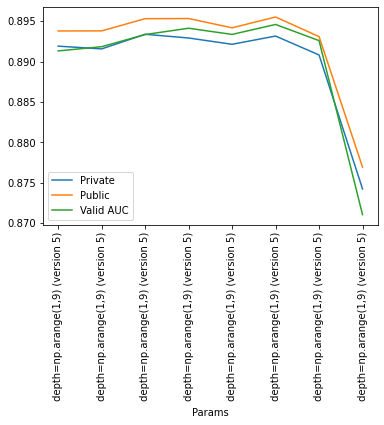
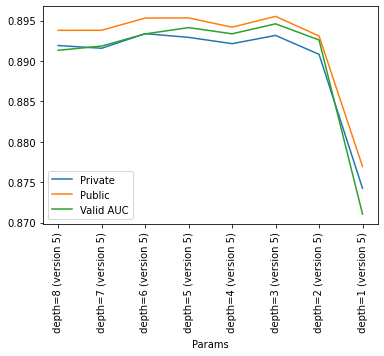
Fix 20210217

diff --git a/_posts/2021-02-05-result_log_20210217.md b/_posts/2021-02-05-result_log_20210217.md
@@ -477,67 +477,67 @@ plt.show()
   </thead>
   <tbody>
     <tr>
-      <th>rs=np.arange(np.arange(1.0,-10.0,-1.0)) (version 6)</th>
+      <th>rs=1e-09 (version 6)</th>
       <td>0.89301</td>
       <td>0.89559</td>
       <td>0.8932034700797187</td>
     </tr>
     <tr>
-      <th>rs=np.arange(np.arange(1.0,-10.0,-1.0)) (version 6)</th>
+      <th>rs=1e-08 (version 6)</th>
       <td>0.89301</td>
       <td>0.89559</td>
       <td>0.8932034700797187</td>
     </tr>
     <tr>
-      <th>rs=np.arange(np.arange(1.0,-10.0,-1.0)) (version 6)</th>
+      <th>rs=1e-07 (version 6)</th>
       <td>0.89301</td>
       <td>0.89559</td>
       <td>0.8932034700797187</td>
     </tr>
     <tr>
-      <th>rs=np.arange(np.arange(1.0,-10.0,-1.0)) (version 6)</th>
+      <th>rs=1e-06 (version 6)</th>
       <td>0.89301</td>
       <td>0.89559</td>
       <td>0.8932034700797187</td>
     </tr>
     <tr>
-      <th>rs=np.arange(np.arange(1.0,-10.0,-1.0)) (version 6)</th>
+      <th>rs=1e-05 (version 6)</th>
       <td>0.89301</td>
       <td>0.89559</td>
       <td>0.8932034700797187</td>
     </tr>
     <tr>
-      <th>rs=np.arange(np.arange(1.0,-10.0,-1.0)) (version 6)</th>
+      <th>0.0001 (version 6)</th>
       <td>0.89231</td>
       <td>0.89520</td>
       <td>0.892749911671009</td>
     </tr>
     <tr>
-      <th>rs=np.arange(np.arange(1.0,-10.0,-1.0)) (version 6)</th>
+      <th>rs=0.001 (version 6)</th>
       <td>0.89344</td>
       <td>0.89602</td>
       <td>0.894032457173871</td>
     </tr>
     <tr>
-      <th>rs=np.arange(np.arange(1.0,-10.0,-1.0)) (version 6)</th>
+      <th>rs=0.01 (version 6)</th>
       <td>0.89308</td>
       <td>0.89516</td>
       <td>0.8938191894557631</td>
     </tr>
     <tr>
-      <th>rs=np.arange(np.arange(1.0,-10.0,-1.0)) (version 6)</th>
+      <th>rs=0.1 (version 6)</th>
       <td>0.89224</td>
       <td>0.89489</td>
       <td>0.8925164075977527</td>
     </tr>
     <tr>
-      <th>rs=np.arange(np.arange(1.0,-10.0,-1.0)) (version 6)</th>
+      <th>rs=1.0 (version 6)</th>
       <td>0.89339</td>
       <td>0.89532</td>
       <td>0.8933556832377493</td>
     </tr>
     <tr>
-      <th>rs=np.arange(np.arange(1.0,-10.0,-1.0)) (version 6)</th>
+      <th>rs=10.0 (version 6)</th>
       <td>0.89303</td>
       <td>0.89528</td>
       <td>0.8934960775340548</td>
@@ -603,49 +603,49 @@ plt.show()
   </thead>
   <tbody>
     <tr>
-      <th>depth=np.arange(1,9) (version 5)</th>
+      <th>depth=8 (version 5)</th>
       <td>0.89192</td>
       <td>0.89380</td>
       <td>0.8913289271504079</td>
     </tr>
     <tr>
-      <th>depth=np.arange(1,9) (version 5)</th>
+      <th>depth=7 (version 5)</th>
       <td>0.89158</td>
       <td>0.89381</td>
       <td>0.8918528618450742</td>
     </tr>
     <tr>
-      <th>depth=np.arange(1,9) (version 5)</th>
+      <th>depth=6 (version 5)</th>
       <td>0.89339</td>
       <td>0.89532</td>
       <td>0.8933556832377493</td>
     </tr>
     <tr>
-      <th>depth=np.arange(1,9) (version 5)</th>
+      <th>depth=5 (version 5)</th>
       <td>0.89293</td>
       <td>0.89534</td>
       <td>0.8941384764537422</td>
     </tr>
     <tr>
-      <th>depth=np.arange(1,9) (version 5)</th>
+      <th>depth=4 (version 5)</th>
       <td>0.89215</td>
       <td>0.89419</td>
       <td>0.8933720786334355</td>
     </tr>
     <tr>
-      <th>depth=np.arange(1,9) (version 5)</th>
+      <th>depth=3 (version 5)</th>
       <td>0.89317</td>
       <td>0.89553</td>
       <td>0.8946058354640966</td>
     </tr>
     <tr>
-      <th>depth=np.arange(1,9) (version 5)</th>
+      <th>depth=2 (version 5)</th>
       <td>0.89083</td>
       <td>0.89310</td>
       <td>0.892605177826841</td>
     </tr>
     <tr>
-      <th>depth=np.arange(1,9) (version 5)</th>
+      <th>depth=1 (version 5)</th>
       <td>0.87424</td>
       <td>0.87694</td>
       <td>0.8710547932628201</td>
